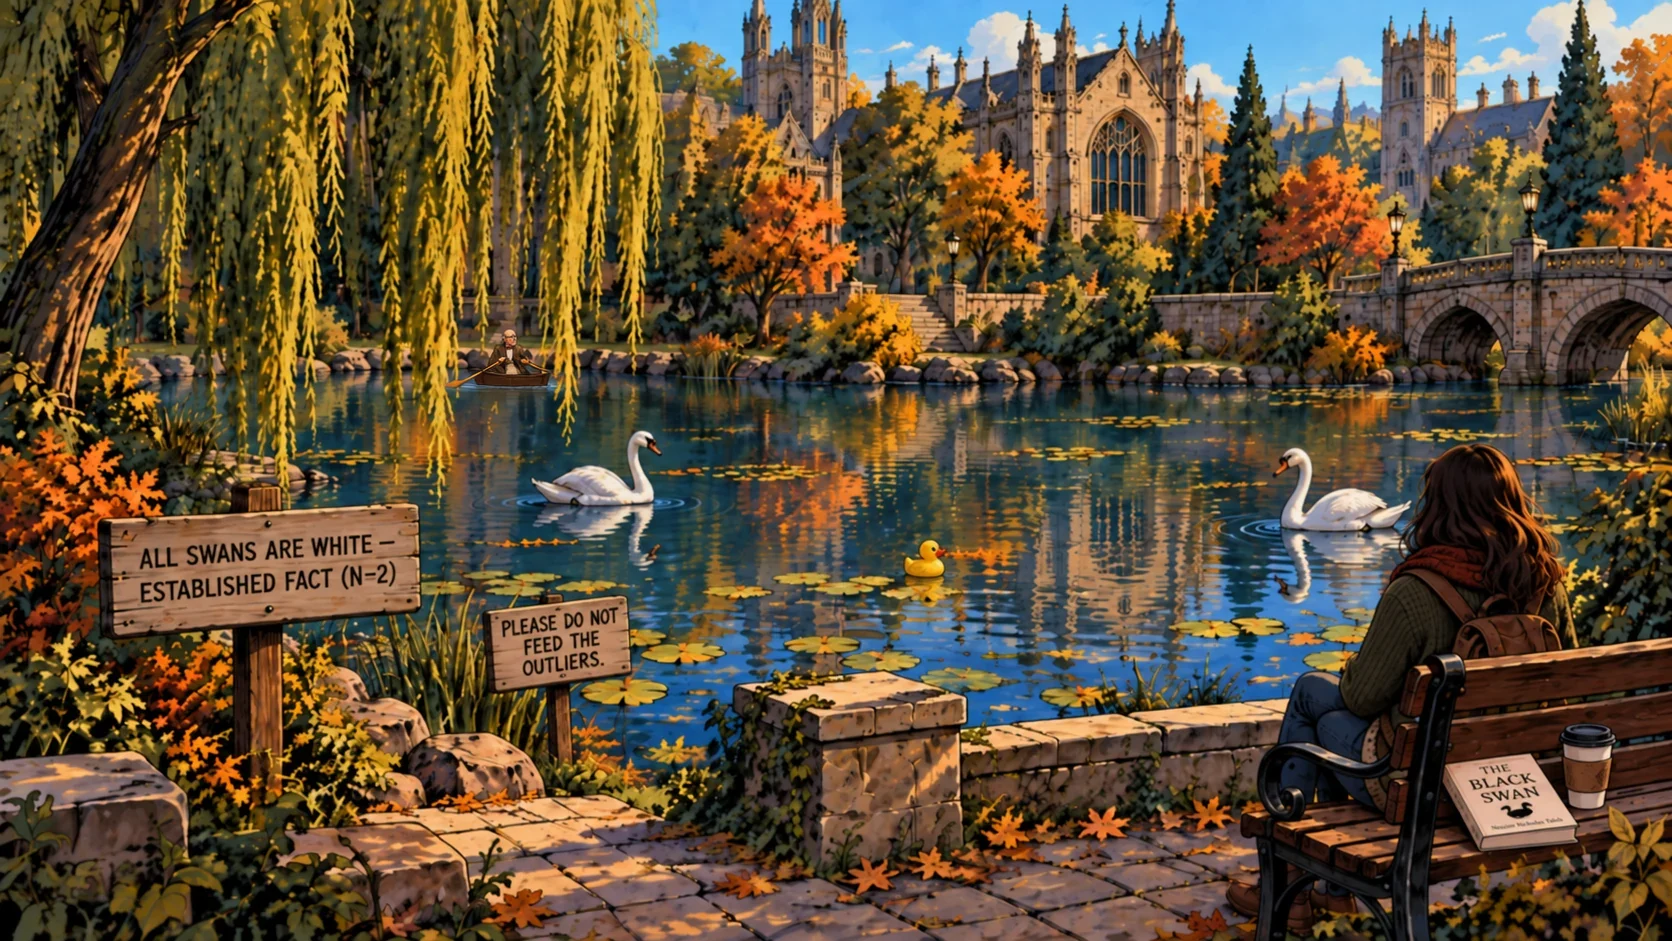
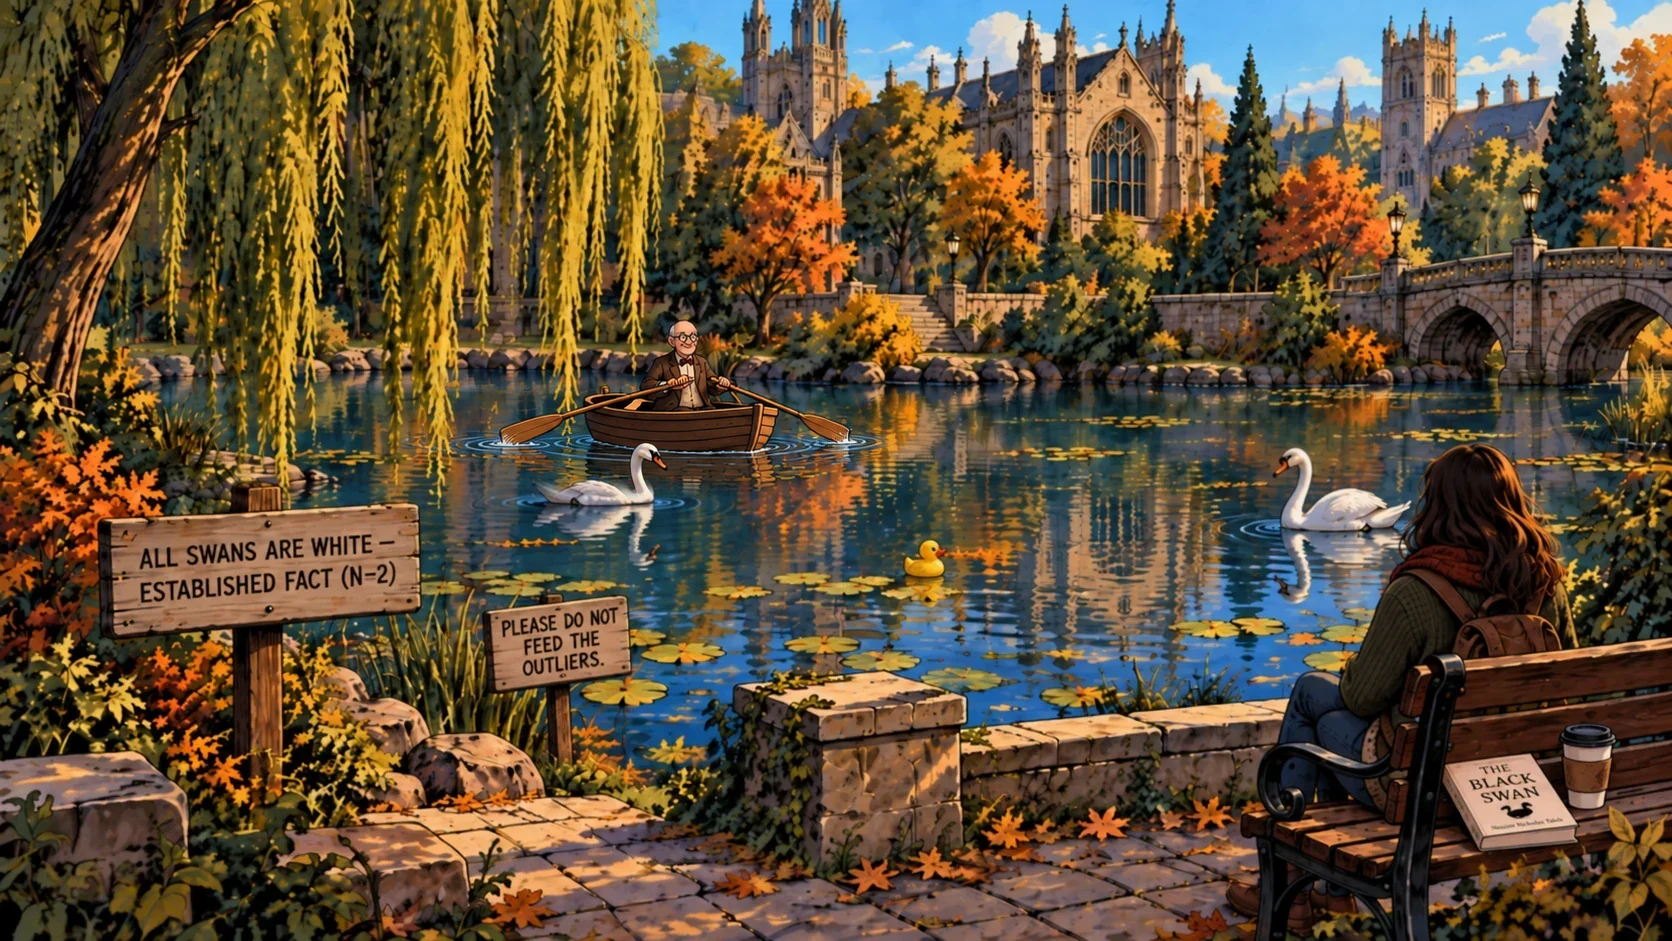
Coleman twice the size, rowing in open water in front of the willow; pond hotspots follow
Claude-Session: https://claude.ai/code/session_01NVbNvGwATBDeX3jSoy7jXs

Changed region(s): [[0.2177, 0.339, 0.5287, 0.5239]]

diff --git a/web/the-secret-of-the-codebook.html b/web/the-secret-of-the-codebook.html
@@ -7177,9 +7177,9 @@ CODEBOOK_REGISTER({
   <div class="scene-wrap" id="pd_sceneWrap">
     <img id="pd_bg" src="pond-bg.webp" alt="" style="width:100%;height:100%;object-fit:cover;display:block;">
     <button class="hotspot" data-id="swanright" data-label="A white swan" style="left:74%;top:45%;width:12%;height:17%;"></button>
-    <!-- James Coleman rowing Coleman's boat, painted into both pond backgrounds (9a) -->
-    <button class="hotspot" data-id="coleman" data-label="A man rowing a boat" style="left:26%;top:34%;width:8%;height:8%;z-index:3;"></button>
-    <button class="hotspot" data-id="swanleft" data-label="Another white swan" style="left:29%;top:44%;width:10%;height:12%;"></button>
+    <!-- James Coleman rowing Coleman's boat, painted into both pond backgrounds (9a); twice the size, in open water (author, 2026-09-26) -->
+    <button class="hotspot" data-id="coleman" data-label="A man rowing a boat" style="left:31%;top:33%;width:18%;height:14%;z-index:3;"></button>
+    <button class="hotspot" data-id="swanleft" data-label="Another white swan" style="left:30%;top:45%;width:11%;height:10%;z-index:4;"></button>
     <button class="hotspot" data-id="plaque" data-label="A wooden plaque" style="left:5%;top:54%;width:20%;height:9%;"></button>
     <img id="pd_bswan" src="pond-black-swan.webp" alt="" style="position:absolute;left:88%;top:35%;width:8.4%;opacity:0;pointer-events:none;transition:left 5s ease-out, top 5s ease-out, opacity 1.2s ease;filter:drop-shadow(0 4px 5px rgba(0,0,0,.35));">
     <button class="hotspot" data-id="philosopher" data-label="A woman on the bench" style="left:79%;top:46%;width:16%;height:40%;"></button>
